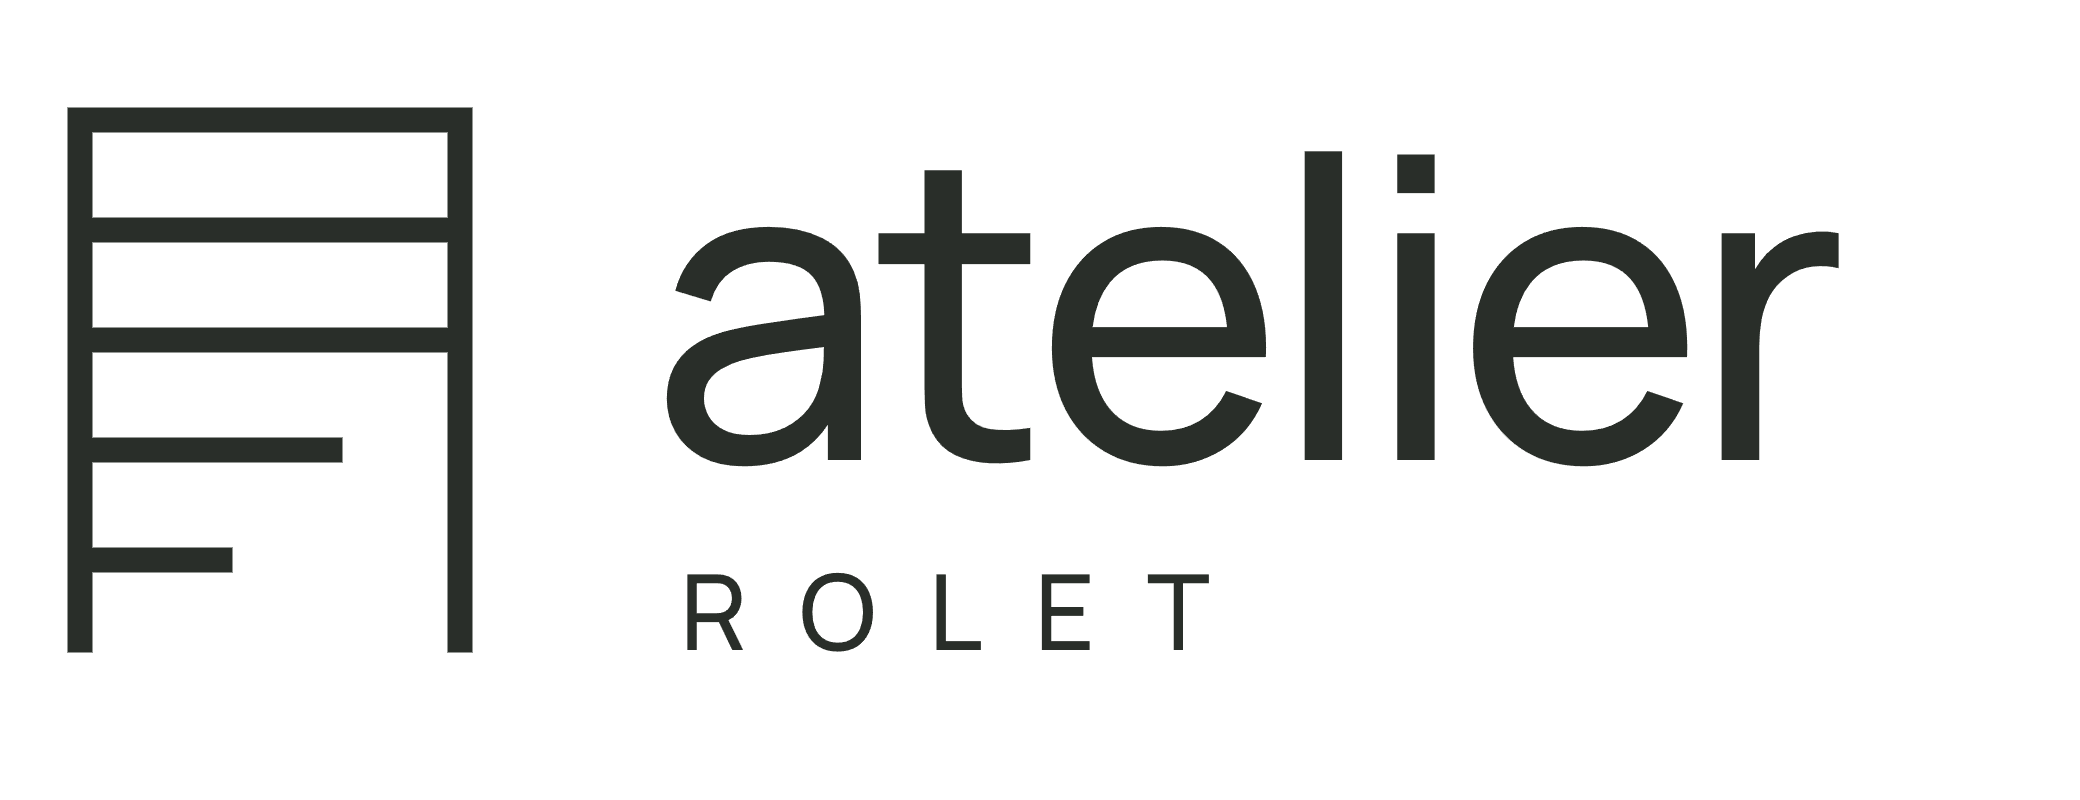
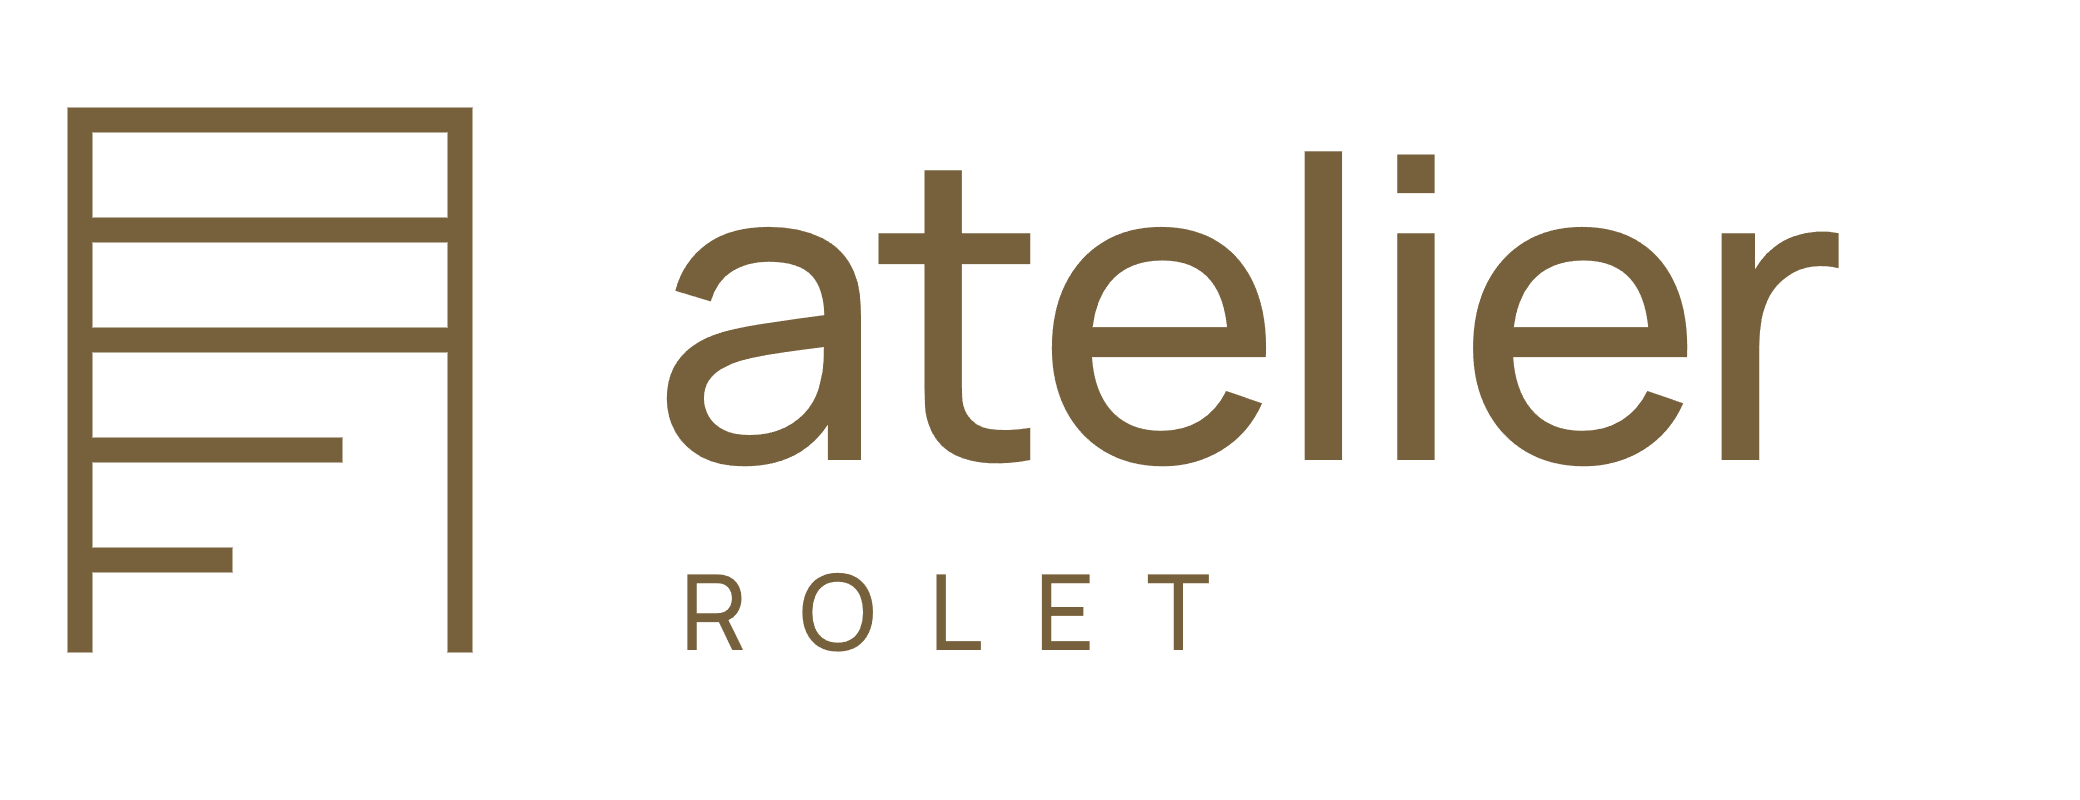
v6

diff --git a/assets/atelier.css b/assets/atelier.css
@@ -1,3 +1,10 @@
+:root {
+  --ink: #332e28;
+  --muted: #6a6054;
+  --line: #ddd5c8;
+  --accent: #77613c;
+  --primary: var(--ink);
+}
 .brand .brand-logo { width: 174px; height: auto; display: block; }
 .hero-visual img { object-position: center; }
 .product-photo { position: relative; overflow: hidden; border-radius: var(--radius); background: var(--linen); aspect-ratio: 4 / 5; }
@@ -25,13 +32,13 @@
 .gallery-more:hover { background: var(--ink); color: var(--canvas); }
 .gallery-more:active { transform: translateY(1px); }
 .gallery-modal-open { overflow: hidden; }
-.gallery-dialog { max-width: none; max-height: none; width: min(1120px, 96vw); height: min(920px, 94dvh); padding: 0; border: 0; background: #20241f; color: #faf9f6; border-radius: 4px; margin: auto; }
-.gallery-dialog::backdrop { background: rgb(15 19 15 / 88%); }
+.gallery-dialog { max-width: none; max-height: none; width: min(1120px, 96vw); height: min(920px, 94dvh); padding: 0; border: 0; background: #29241e; color: var(--canvas); border-radius: 4px; margin: auto; }
+.gallery-dialog::backdrop { background: rgb(25 21 16 / 88%); }
 .gallery-viewer { height: 100%; display: grid; grid-template-rows: auto minmax(0, 1fr) auto; padding: 16px 24px; gap: 12px; }
 .gallery-toolbar, .gallery-bottom { display: flex; align-items: center; justify-content: space-between; gap: 16px; }
-.gallery-dialog button { min-width: 48px; min-height: 48px; border: 1px solid #70766b; background: transparent; color: inherit; font: inherit; border-radius: 3px; padding: 8px 14px; cursor: pointer; }
-.gallery-dialog button:hover { background: #3c4238; }
-.gallery-dialog button:active { background: #505749; }
+.gallery-dialog button { min-width: 48px; min-height: 48px; border: 1px solid #887966; background: transparent; color: inherit; font: inherit; border-radius: 3px; padding: 8px 14px; cursor: pointer; }
+.gallery-dialog button:hover { background: #44392d; }
+.gallery-dialog button:active { background: #584a3a; }
 .gallery-stage { min-height: 0; display: grid; place-items: center; }
 .gallery-full { width: 100%; height: 100%; min-height: 0; object-fit: contain; }
 .gallery-bottom p { text-align: center; margin: 0; font-size: 14px; }

diff --git a/scripts/prepare-logo.py b/scripts/prepare-logo.py
@@ -25,9 +25,9 @@ mark = '<path d="M8 64V12h38v52M8 12h38M8 23h38M8 34h38M8 45h25M8 56h14" fill="n
 letters = lettering('atelier', 65, 46, 42, -1.2) + lettering('ROLET', 68, 65, 10.5, 5.2)
 dest = root / 'images/brand'
 dest.mkdir(exist_ok=True)
-for name, color in [('atelier-rolet', '#292e29'), ('atelier-rolet-light', '#faf9f6')]:
+for name, color in [('atelier-rolet', '#77613c'), ('atelier-rolet-light', '#faf9f6')]:
     svg = f'<svg xmlns="http://www.w3.org/2000/svg" viewBox="0 0 208 80" role="img" aria-labelledby="title"><title id="title">Atelier Rolet</title><g color="{color}" fill="{color}">{mark}{letters}</g></svg>'
     (dest / f'{name}.svg').write_text(svg, encoding='utf-8')
-(dest / 'atelier-rolet-symbol.svg').write_text(f'<svg xmlns="http://www.w3.org/2000/svg" viewBox="0 0 54 76" color="#292e29">{mark}</svg>', encoding='utf-8')
-(root / 'favicon.svg').write_text(f'<svg xmlns="http://www.w3.org/2000/svg" viewBox="0 0 76 76"><rect width="76" height="76" rx="12" fill="#292e29"/><g transform="translate(11 0)" color="#faf9f6">{mark}</g></svg>', encoding='utf-8')
+(dest / 'atelier-rolet-symbol.svg').write_text(f'<svg xmlns="http://www.w3.org/2000/svg" viewBox="0 0 54 76" color="#77613c">{mark}</svg>', encoding='utf-8')
+(root / 'favicon.svg').write_text(f'<svg xmlns="http://www.w3.org/2000/svg" viewBox="0 0 76 76"><rect width="76" height="76" rx="12" fill="#77613c"/><g transform="translate(11 0)" color="#faf9f6">{mark}</g></svg>', encoding='utf-8')
 print('Created primary, reversed, symbol and favicon SVGs.')

diff --git a/DESIGN.md b/DESIGN.md
@@ -3,8 +3,11 @@
 Public Polish-language brand site for window coverings in Radom and nearby areas.
 
 Preserve the established Manrope / DM Sans typography and warm, quiet palette:
-canvas `#faf9f6`, ink `#292e29`, muted `#606357`, linen `#e9e4da`, accent `#77613c`.
-Existing tokens are defined in the original stylesheet in `assets/`.
+canvas `#faf9f6`, ink `#332e28`, muted `#6a6054`, linen `#e9e4da`, accent `#77613c`, line `#ddd5c8`.
+The warm palette overrides the original tokens in `assets/atelier.css`.
+Use brown and beige undertones throughout, including contact, footer, buttons
+and gallery overlays. The primary logo and favicon share the bronze accent
+`#77613c`; avoid green-tinted charcoal in brand assets and interface surfaces.
 
 The new identity uses an open window frame with progressively shorter horizontal
 slats, suggesting a raised blind and incoming light. The Manrope wordmark is
